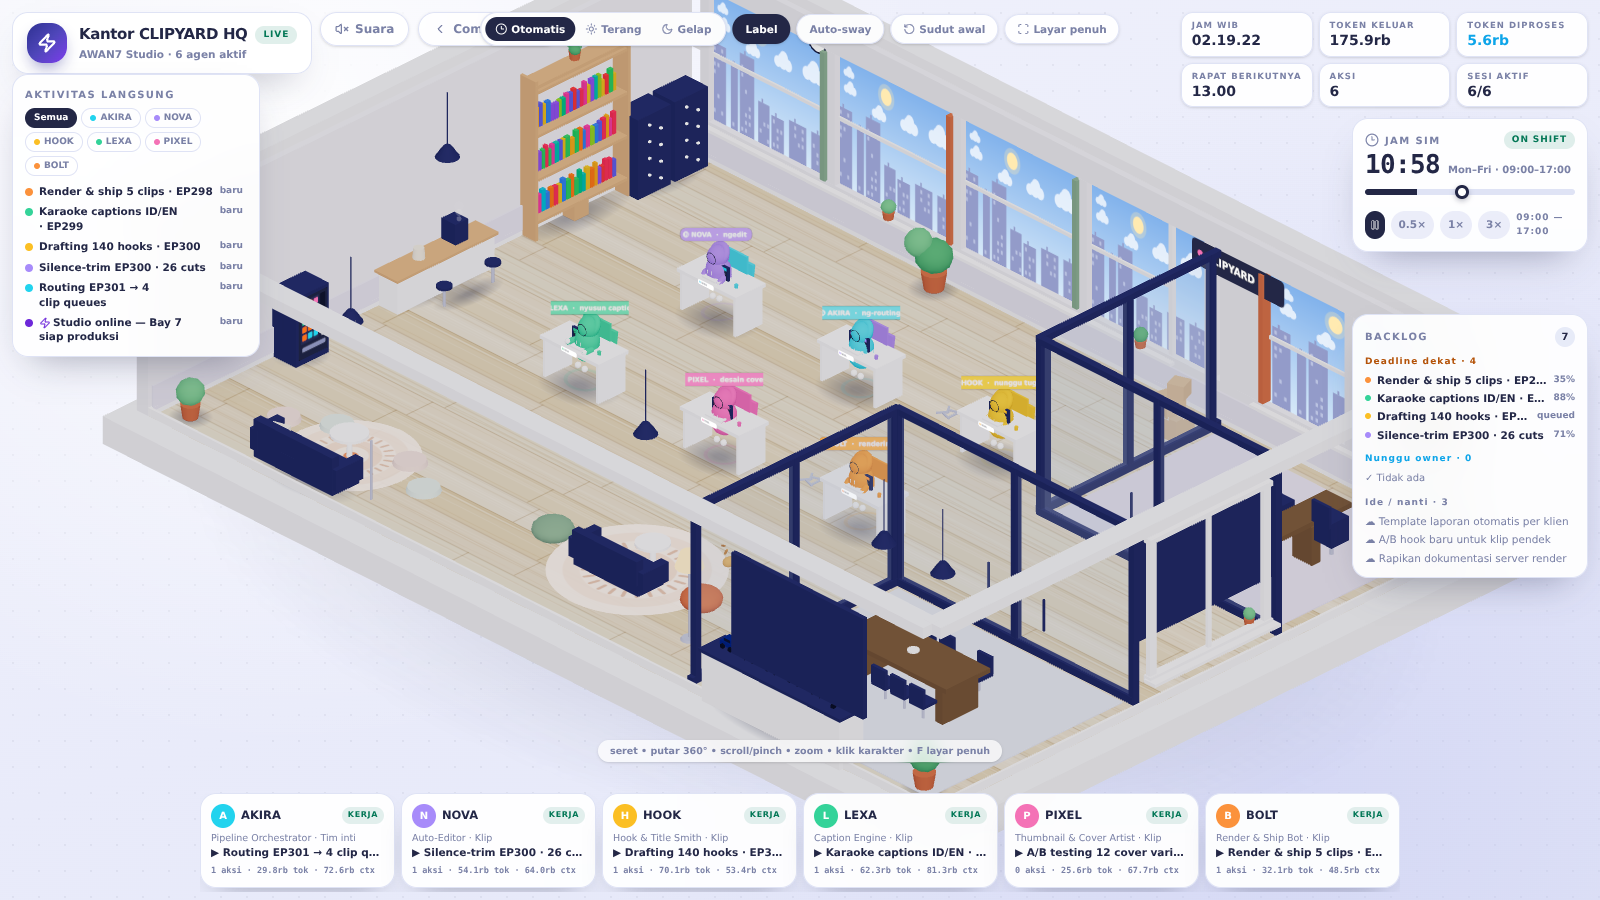
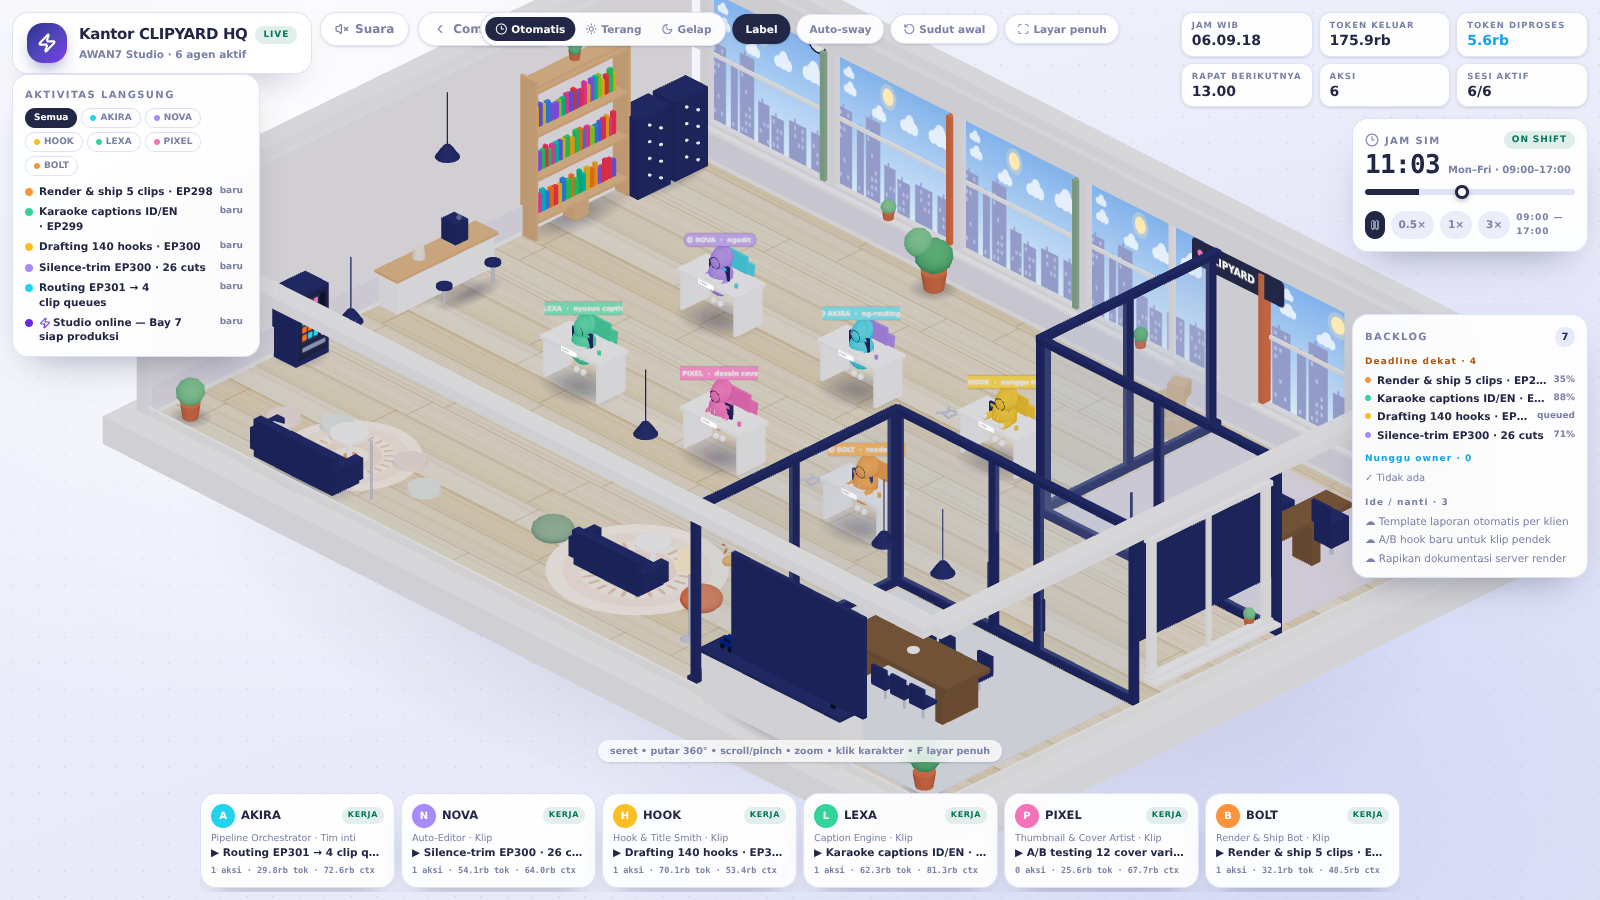
Fix sinkron duduk: kursi rapat, pintu sliding kaca, spot lounge
- MEETING_SEATS disamakan dengan posisi kursi asli (z 4.62/6.58) + SEAT_Y 0.68
  — agen duduk pas di kursi, tidak tenggelam/nempel meja
- Dinding kaca meeting room dibuka pintu sliding (x 8.55-10.15); agen detour
  lewat pintu, tidak menembus kaca
- Spot lounge dipindah keluar meeting room: sofa/beanbag/bantal lantai dengan
  tinggi duduk per-spot (loungeY)

diff --git a/src/components/hq/agents.tsx b/src/components/hq/agents.tsx
@@ -18,13 +18,32 @@ function hoverCursor(e: ThreeEvent<PointerEvent>, on: boolean) {
 
 /** Standup seats around the meeting table (index → seat). */
 const MEETING_SEATS: Array<{ pos: [number, number]; yaw: number }> = [
-  { pos: [8.0, 4.72], yaw: 0 },
-  { pos: [9.35, 4.72], yaw: 0 },
-  { pos: [10.7, 4.72], yaw: 0 },
-  { pos: [8.0, 6.48], yaw: Math.PI },
-  { pos: [9.35, 6.48], yaw: Math.PI },
-  { pos: [10.7, 6.48], yaw: Math.PI },
+  { pos: [8.0, 4.62], yaw: 0 },
+  { pos: [9.35, 4.62], yaw: 0 },
+  { pos: [10.7, 4.62], yaw: 0 },
+  { pos: [8.0, 6.58], yaw: Math.PI },
+  { pos: [9.35, 6.58], yaw: Math.PI },
+  { pos: [10.7, 6.58], yaw: Math.PI },
 ];
+/** chair seat surface is at y≈0.765 — sit slightly into the cushion */
+const SEAT_Y = 0.68;
+
+/** sliding-door opening in the meeting-room glass (x range on the z=2.0 line) */
+const DOOR = { x0: 8.55, x1: 10.15 };
+const DOOR_OUT: [number, number] = [9.35, 0.95];
+
+/** does the segment a->b pass through meeting-room glass? */
+function crossesMeetingGlass(ax: number, az: number, bx: number, bz: number): boolean {
+  if (ax < 5.1 !== bx < 5.1) {
+    const zc = az + (bz - az) * ((5.1 - ax) / (bx - ax));
+    if (zc > 2.15 && zc < 9.05) return true;
+  }
+  if (az < 2.0 !== bz < 2.0) {
+    const xc = ax + (bx - ax) * ((2.0 - az) / (bz - az));
+    if (xc > 5.3 && xc < 13.4 && (xc < DOOR.x0 || xc > DOOR.x1)) return true;
+  }
+  return false;
+}
 
 function Hoodie({ info, index }: { info: AgentInfo; index: number }) {
   const group = useRef<THREE.Group>(null);
@@ -53,8 +72,6 @@ function Hoodie({ info, index }: { info: AgentInfo; index: number }) {
   const plateText = useRef("");
   const prevState = useRef("");
 
-  // seat height in the meeting room (chairs) vs floor cushions vs sofa
-  const loungeY = index >= 4 ? 0.42 : 0;
   const seatPos = MEETING_SEATS[index];
 
   useFrame((state, delta) => {
@@ -77,7 +94,7 @@ function Hoodie({ info, index }: { info: AgentInfo; index: number }) {
     if (meeting) {
       px = seatPos.pos[0];
       pz = seatPos.pos[1];
-      py = 0.28;
+      py = SEAT_Y;
       yaw = seatPos.yaw;
       statusText = "standup";
     } else if (on) {
@@ -88,7 +105,7 @@ function Hoodie({ info, index }: { info: AgentInfo; index: number }) {
       statusText = failed ? "error!" : waitingOk ? "minta OK" : job?.status === "queued" ? "nunggu tugas" : info.verb;
     } else {
       px = info.lounge[0];
-      py = loungeY;
+      py = info.loungeY;
       pz = info.lounge[1];
       yaw = info.loungeYaw;
       statusText = failed ? "ngisi token…" : "rehat";
@@ -98,7 +115,18 @@ function Hoodie({ info, index }: { info: AgentInfo; index: number }) {
     if (!g) return;
 
     const before = g.position.clone();
-    target.current.set(px, py, pz);
+    let tx = px;
+    let tz = pz;
+    if (crossesMeetingGlass(before.x, before.z, tx, tz)) {
+      tx = DOOR_OUT[0];
+      tz = DOOR_OUT[1];
+      if (Math.hypot(before.x - tx, before.z - tz) < 0.5) {
+        // at the outer door point the straight line already goes through the opening
+        tx = px;
+        tz = pz;
+      }
+    }
+    target.current.set(tx, py, tz);
     g.position.lerp(target.current, 1 - Math.exp(-d * 1.7 * speed));
     walking.current = before.distanceTo(g.position) > 0.004;
 
@@ -137,6 +165,7 @@ function Hoodie({ info, index }: { info: AgentInfo; index: number }) {
     const swing = walking.current ? Math.sin(t * 9 + phase) * 0.38 : 0;
     if (leftArm.current) leftArm.current.rotation.x = -0.85 + typing + swing;
     if (rightArm.current) rightArm.current.rotation.x = -0.85 - typing + swing;
+
 
     if (ring.current) {
       ring.current.opacity = (selected ? 0.9 : hover ? 0.5 : 0.18) * (on ? 1 : 0.55);

diff --git a/src/lib/hq-data.ts b/src/lib/hq-data.ts
@@ -22,6 +22,8 @@ export interface AgentInfo {
   deskYaw: number;
   /** world position in the lounge while off-shift (x, z) */
   lounge: [number, number];
+  /** base height of the lounge spot (sofa/beanbag seat vs floor) */
+  loungeY: number;
   /** facing yaw in the lounge */
   loungeYaw: number;
   /** short activity verb for the live nameplate (on shift) */
@@ -60,9 +62,10 @@ export const AGENTS: AgentInfo[] = [
     vehicle: "Midnight-blue sedan",
     desk: [-2.5, -4.2],
     deskYaw: 0,
-    lounge: [6.6, 2.2],
+    lounge: [-0.6, 6.95],
+    loungeY: 0.62,
     verb: "ng-routing",
-    loungeYaw: -Math.PI / 2,
+    loungeYaw: Math.PI,
   },
   {
     id: "nova",
@@ -77,9 +80,10 @@ export const AGENTS: AgentInfo[] = [
     vehicle: "Teal render van",
     desk: [-7.5, -4.2],
     deskYaw: 0,
-    lounge: [6.6, 3.2],
+    lounge: [1.0, 6.95],
+    loungeY: 0.62,
     verb: "ngedit",
-    loungeYaw: -Math.PI / 2,
+    loungeYaw: Math.PI,
   },
   {
     id: "hook",
@@ -94,9 +98,10 @@ export const AGENTS: AgentInfo[] = [
     vehicle: "Sunrise-yellow hatch",
     desk: [2.5, -4.2],
     deskYaw: 0,
-    lounge: [6.6, 4.2],
+    lounge: [2.6, 6.4],
+    loungeY: 0.42,
     verb: "cari hook",
-    loungeYaw: -Math.PI / 2,
+    loungeYaw: -0.5,
   },
   {
     id: "lexa",
@@ -112,6 +117,7 @@ export const AGENTS: AgentInfo[] = [
     desk: [-7.5, 0.6],
     deskYaw: 0,
     lounge: [4.2, 2.4],
+    loungeY: 0,
     verb: "nyusun caption",
     loungeYaw: 1.9,
   },
@@ -128,7 +134,8 @@ export const AGENTS: AgentInfo[] = [
     vehicle: "Magenta sport hatch",
     desk: [-2.5, 0.6],
     deskYaw: 0,
-    lounge: [5.2, 4.3],
+    lounge: [4.3, 4.35],
+    loungeY: 0,
     verb: "desain cover",
     loungeYaw: 1.1,
   },
@@ -145,9 +152,10 @@ export const AGENTS: AgentInfo[] = [
     vehicle: "Orange work pickup",
     desk: [2.5, 0.6],
     deskYaw: 0,
-    lounge: [6.05, 2.6],
+    lounge: [-2.5, 6.6],
+    loungeY: 0.42,
     verb: "rendering",
-    loungeYaw: 1.5,
+    loungeYaw: -2.3,
   },
 ];
 

diff --git a/src/components/hq/world.tsx b/src/components/hq/world.tsx
@@ -152,13 +152,16 @@ function useShellGeometries() {
 
     // meeting room glass + frames (+ door handles)
     const glass = merge([
-      boxAt(8.1, 4.9, 0.06, 9.35, 2.5, 2.0),
+      // front wall split into two panes with a real sliding-door opening (x 8.55-10.15)
+      boxAt(3.25, 4.9, 0.06, 6.925, 2.5, 2.0),
+      boxAt(3.25, 4.9, 0.06, 11.775, 2.5, 2.0),
+      boxAt(1.6, 2.0, 0.06, 9.35, 3.95, 2.0),
       boxAt(0.06, 4.9, 6.9, 5.1, 2.5, 5.6),
     ]);
     const glassFrame = merge([
       boxAt(8.5, 0.18, 0.2, 9.35, 5.02, 2.0),
       boxAt(8.5, 0.3, 0.2, 9.35, 0.06, 2.0),
-      ...[5.15, 9.35, 13.55].map((x) => boxAt(0.18, 5.1, 0.2, x, 2.55, 2.0)),
+      ...[5.15, 8.55, 10.15, 13.55].map((x) => boxAt(0.18, 5.1, 0.2, x, 2.55, 2.0)),
       boxAt(0.2, 0.18, 7.3, 5.1, 5.02, 5.6),
       boxAt(0.2, 0.3, 7.3, 5.1, 0.06, 5.6),
       ...[2.15, 5.6, 9.05].map((z) => boxAt(0.2, 5.1, 0.18, 5.1, 2.55, z)),

diff --git a/README.md b/README.md
@@ -190,3 +190,16 @@ Pass detailing + texture + palette di atas open-plan Fase 4:
 Palet dihangatkan: navy #3a4070 lebih lembut, aksen sage/terracotta/mustard,
 krem, wainscot lembut. QA headless hijau (HUD + siang/malam/standup/360°).
 
+### Perbaikan sinkron duduk (laporan user)
+
+- Kursi rapat kini dihitung dari furnitur aslinya: posisi kursi (z 4.62/6.58)
+  dan tinggi duduk SEAT_Y 0.68 — agen duduk pas di kursi, tidak lagi
+  setengah tenggelam / menempel meja
+- Dinding kaca meeting room mendapat **pintu sliding sungguhan** (bukaan
+  x 8.55–10.15) + routing agen detour lewat pintu — tidak ada lagi agen
+  menembus kaca saat berangkat standup
+- Spot lounge dirombak: 2 agen di sofa lounge, 2 di beanbag (sage/terra),
+  2 di bantal lantai — sebelumnya 5 spot jatuh DI DALAM meeting room dan
+  agen "rehat" nyemplung tembok kaca; tinggi duduk per-spot (`loungeY`)
+
+
